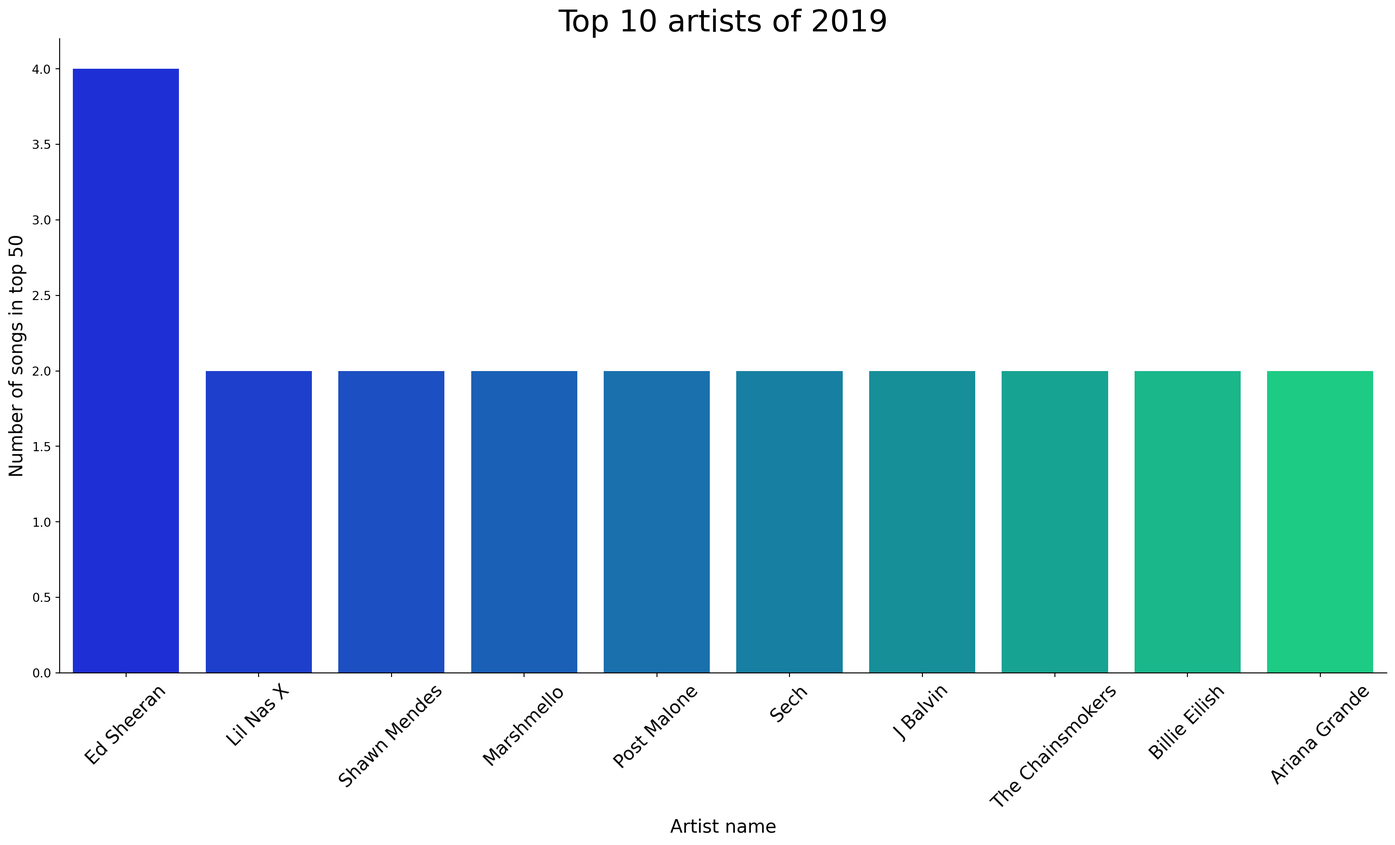
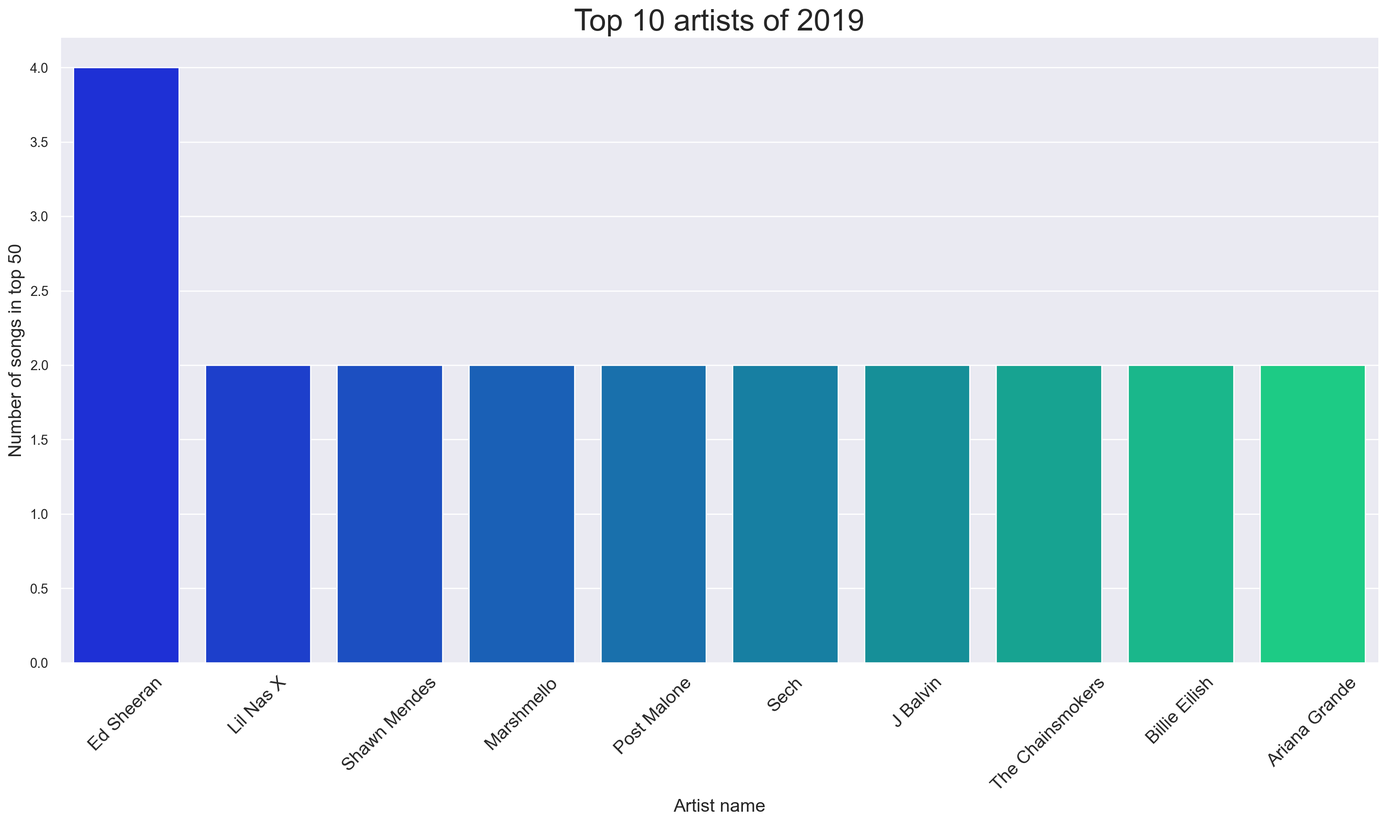
Spotify analysis cover image added

diff --git a/docs/_site/posts/blogs/Spotify top 50/Spotify_v1.html b/docs/_site/posts/blogs/Spotify top 50/Spotify_v1.html
@@ -7,7 +7,7 @@
 <meta name="viewport" content="width=device-width, initial-scale=1.0, user-scalable=yes">
 
 
-<title>R-insights 📊📈🖥 - Introduction</title>
+<title>R-insights 📊📈🖥 - What’s hot to listen to on Spotify in 2019</title>
 <style>
 code{white-space: pre-wrap;}
 span.smallcaps{font-variant: small-caps;}
@@ -168,7 +168,7 @@ require(['plotly'], function(Plotly) {
 <header id="title-block-header" class="quarto-title-block default page-columns page-full">
   <div class="quarto-title-banner page-columns page-full">
     <div class="quarto-title column-body">
-      <h1 class="title">Introduction</h1>
+      <h1 class="title">What’s hot to listen to on Spotify in 2019</h1>
                       </div>
   </div>
     
@@ -197,8 +197,8 @@ require(['plotly'], function(Plotly) {
 <p>Through this kernel, we would like to analyse the top 50 songs published by Spotify in 2019. We will check the various genres, popularity and some other features that made the songs to famous amongst the users.</p>
 <div class="quarto-figure quarto-figure-center">
 <figure class="figure">
-<p><img src="attachment:34173-original.jpg" class="img-fluid figure-img"></p>
-<figcaption class="figure-caption">34173-original.jpg</figcaption>
+<p><img src="spotify.png" class="img-fluid figure-img"></p>
+<figcaption class="figure-caption">Source: Google images</figcaption>
 </figure>
 </div>
 <section id="importing-the-relevant-libraries-and-dataset" class="level1">
@@ -214,7 +214,7 @@ require(['plotly'], function(Plotly) {
 <div class="cell" data-execution_count="2">
 <div class="sourceCode cell-code" id="cb2"><pre class="sourceCode python code-with-copy"><code class="sourceCode python"><span id="cb2-1"><a href="#cb2-1" aria-hidden="true" tabindex="-1"></a>df<span class="op">=</span>pd.read_csv(<span class="st">'top50.csv'</span>,encoding<span class="op">=</span><span class="st">'latin_1'</span>,index_col<span class="op">=</span><span class="dv">0</span>)</span>
 <span id="cb2-2"><a href="#cb2-2" aria-hidden="true" tabindex="-1"></a>df.head()</span></code><button title="Copy to Clipboard" class="code-copy-button"><i class="bi"></i></button></pre></div>
-<div class="cell-output cell-output-display" data-execution_count="2">
+<div class="cell-output cell-output-display" data-execution_count="15">
 <div>
 
 
@@ -335,7 +335,7 @@ require(['plotly'], function(Plotly) {
 <div class="sourceCode cell-code" id="cb3"><pre class="sourceCode python code-with-copy"><code class="sourceCode python"><span id="cb3-1"><a href="#cb3-1" aria-hidden="true" tabindex="-1"></a>df[<span class="st">'Count'</span>]<span class="op">=</span><span class="dv">1</span></span>
 <span id="cb3-2"><a href="#cb3-2" aria-hidden="true" tabindex="-1"></a>df_artist<span class="op">=</span>df.groupby(<span class="st">'Artist.Name'</span>)[<span class="st">'Count'</span>].<span class="bu">sum</span>().reset_index().sort_values(by<span class="op">=</span><span class="st">'Count'</span>,ascending<span class="op">=</span><span class="va">False</span>)</span>
 <span id="cb3-3"><a href="#cb3-3" aria-hidden="true" tabindex="-1"></a>df_artist.head(<span class="dv">10</span>)</span></code><button title="Copy to Clipboard" class="code-copy-button"><i class="bi"></i></button></pre></div>
-<div class="cell-output cell-output-display" data-execution_count="3">
+<div class="cell-output cell-output-display" data-execution_count="16">
 <div>
 
 
@@ -416,7 +416,7 @@ require(['plotly'], function(Plotly) {
 The figure layout has changed to tight
 </code></pre>
 </div>
-<div class="cell-output cell-output-display" data-execution_count="4">
+<div class="cell-output cell-output-display" data-execution_count="17">
 <pre><code>(array([0, 1, 2, 3, 4, 5, 6, 7, 8, 9]),
  [Text(0, 0, 'Ed Sheeran'),
   Text(1, 0, 'Lil Nas X'),
@@ -430,7 +430,7 @@ The figure layout has changed to tight
   Text(9, 0, 'Ariana Grande')])</code></pre>
 </div>
 <div class="cell-output cell-output-display">
-<p><img src="Spotify_v1_files/figure-html/cell-5-output-3.png" width="1532" height="928"></p>
+<p><img src="Spotify_v1_files/figure-html/cell-5-output-3.png" width="1524" height="905"></p>
 </div>
 </div>
 <p>As we can see from the plot above, Ed Sheeran performed the best with 4 songs in the top 50 charts. The notable other artists with more than 1 song have been shown above. All other artists had not more than 1 song in the top 50.</p>
@@ -441,7 +441,7 @@ The figure layout has changed to tight
 <div class="cell" data-execution_count="5">
 <div class="sourceCode cell-code" id="cb7"><pre class="sourceCode python code-with-copy"><code class="sourceCode python"><span id="cb7-1"><a href="#cb7-1" aria-hidden="true" tabindex="-1"></a>df_genre<span class="op">=</span>df.groupby(<span class="st">'Genre'</span>)[<span class="st">'Count'</span>].<span class="bu">sum</span>().reset_index().sort_values(by<span class="op">=</span><span class="st">'Count'</span>,ascending<span class="op">=</span><span class="va">False</span>)</span>
 <span id="cb7-2"><a href="#cb7-2" aria-hidden="true" tabindex="-1"></a>df_genre.head()</span></code><button title="Copy to Clipboard" class="code-copy-button"><i class="bi"></i></button></pre></div>
-<div class="cell-output cell-output-display" data-execution_count="5">
+<div class="cell-output cell-output-display" data-execution_count="18">
 <div>
 
 
@@ -493,9 +493,9 @@ The figure layout has changed to tight
 <span id="cb8-4"><a href="#cb8-4" aria-hidden="true" tabindex="-1"></a>fig.show()</span></code><button title="Copy to Clipboard" class="code-copy-button"><i class="bi"></i></button></pre></div>
 <div class="cell-output cell-output-display">
 
-<div>                            <div id="2eced8bc-771d-4a26-bbdc-239e9458ddee" class="plotly-graph-div" style="height:525px; width:100%;"></div>            <script type="text/javascript">                require(["plotly"], function(Plotly) {                    window.PLOTLYENV=window.PLOTLYENV || {};                                    if (document.getElementById("2eced8bc-771d-4a26-bbdc-239e9458ddee")) {                    Plotly.newPlot(                        "2eced8bc-771d-4a26-bbdc-239e9458ddee",                        [{"domain":{"x":[0.0,1.0],"y":[0.0,1.0]},"hole":0.4,"hovertemplate":"Genre=%{label}<br>Count=%{value}<extra></extra>","labels":["dance pop","pop","latin","edm","canadian hip hop","reggaeton flow","reggaeton","brostep","canadian pop","country rap","dfw rap","electropop","panamanian pop","r&b en espanol","pop house","atl hip hop","escape room","australian pop","boy band","big room","trap music"],"legendgroup":"","name":"","showlegend":true,"values":[8,7,5,3,3,2,2,2,2,2,2,2,2,1,1,1,1,1,1,1,1],"type":"pie","textfont":{"size":15},"textinfo":"percent"}],                        {"template":{"data":{"histogram2dcontour":[{"type":"histogram2dcontour","colorbar":{"outlinewidth":0,"ticks":""},"colorscale":[[0.0,"#0d0887"],[0.1111111111111111,"#46039f"],[0.2222222222222222,"#7201a8"],[0.3333333333333333,"#9c179e"],[0.4444444444444444,"#bd3786"],[0.5555555555555556,"#d8576b"],[0.6666666666666666,"#ed7953"],[0.7777777777777778,"#fb9f3a"],[0.8888888888888888,"#fdca26"],[1.0,"#f0f921"]]}],"choropleth":[{"type":"choropleth","colorbar":{"outlinewidth":0,"ticks":""}}],"histogram2d":[{"type":"histogram2d","colorbar":{"outlinewidth":0,"ticks":""},"colorscale":[[0.0,"#0d0887"],[0.1111111111111111,"#46039f"],[0.2222222222222222,"#7201a8"],[0.3333333333333333,"#9c179e"],[0.4444444444444444,"#bd3786"],[0.5555555555555556,"#d8576b"],[0.6666666666666666,"#ed7953"],[0.7777777777777778,"#fb9f3a"],[0.8888888888888888,"#fdca26"],[1.0,"#f0f921"]]}],"heatmap":[{"type":"heatmap","colorbar":{"outlinewidth":0,"ticks":""},"colorscale":[[0.0,"#0d0887"],[0.1111111111111111,"#46039f"],[0.2222222222222222,"#7201a8"],[0.3333333333333333,"#9c179e"],[0.4444444444444444,"#bd3786"],[0.5555555555555556,"#d8576b"],[0.6666666666666666,"#ed7953"],[0.7777777777777778,"#fb9f3a"],[0.8888888888888888,"#fdca26"],[1.0,"#f0f921"]]}],"heatmapgl":[{"type":"heatmapgl","colorbar":{"outlinewidth":0,"ticks":""},"colorscale":[[0.0,"#0d0887"],[0.1111111111111111,"#46039f"],[0.2222222222222222,"#7201a8"],[0.3333333333333333,"#9c179e"],[0.4444444444444444,"#bd3786"],[0.5555555555555556,"#d8576b"],[0.6666666666666666,"#ed7953"],[0.7777777777777778,"#fb9f3a"],[0.8888888888888888,"#fdca26"],[1.0,"#f0f921"]]}],"contourcarpet":[{"type":"contourcarpet","colorbar":{"outlinewidth":0,"ticks":""}}],"contour":[{"type":"contour","colorbar":{"outlinewidth":0,"ticks":""},"colorscale":[[0.0,"#0d0887"],[0.1111111111111111,"#46039f"],[0.2222222222222222,"#7201a8"],[0.3333333333333333,"#9c179e"],[0.4444444444444444,"#bd3786"],[0.5555555555555556,"#d8576b"],[0.6666666666666666,"#ed7953"],[0.7777777777777778,"#fb9f3a"],[0.8888888888888888,"#fdca26"],[1.0,"#f0f921"]]}],"surface":[{"type":"surface","colorbar":{"outlinewidth":0,"ticks":""},"colorscale":[[0.0,"#0d0887"],[0.1111111111111111,"#46039f"],[0.2222222222222222,"#7201a8"],[0.3333333333333333,"#9c179e"],[0.4444444444444444,"#bd3786"],[0.5555555555555556,"#d8576b"],[0.6666666666666666,"#ed7953"],[0.7777777777777778,"#fb9f3a"],[0.8888888888888888,"#fdca26"],[1.0,"#f0f921"]]}],"mesh3d":[{"type":"mesh3d","colorbar":{"outlinewidth":0,"ticks":""}}],"scatter":[{"fillpattern":{"fillmode":"overlay","size":10,"solidity":0.2},"type":"scatter"}],"parcoords":[{"type":"parcoords","line":{"colorbar":{"outlinewidth":0,"ticks":""}}}],"scatterpolargl":[{"type":"scatterpolargl","marker":{"colorbar":{"outlinewidth":0,"ticks":""}}}],"bar":[{"error_x":{"color":"#2a3f5f"},"error_y":{"color":"#2a3f5f"},"marker":{"line":{"color":"#E5ECF6","width":0.5},"pattern":{"fillmode":"overlay","size":10,"solidity":0.2}},"type":"bar"}],"scattergeo":[{"type":"scattergeo","marker":{"colorbar":{"outlinewidth":0,"ticks":""}}}],"scatterpolar":[{"type":"scatterpolar","marker":{"colorbar":{"outlinewidth":0,"ticks":""}}}],"histogram":[{"marker":{"pattern":{"fillmode":"overlay","size":10,"solidity":0.2}},"type":"histogram"}],"scattergl":[{"type":"scattergl","marker":{"colorbar":{"outlinewidth":0,"ticks":""}}}],"scatter3d":[{"type":"scatter3d","line":{"colorbar":{"outlinewidth":0,"ticks":""}},"marker":{"colorbar":{"outlinewidth":0,"ticks":""}}}],"scattermapbox":[{"type":"scattermapbox","marker":{"colorbar":{"outlinewidth":0,"ticks":""}}}],"scatterternary":[{"type":"scatterternary","marker":{"colorbar":{"outlinewidth":0,"ticks":""}}}],"scattercarpet":[{"type":"scattercarpet","marker":{"colorbar":{"outlinewidth":0,"ticks":""}}}],"carpet":[{"aaxis":{"endlinecolor":"#2a3f5f","gridcolor":"white","linecolor":"white","minorgridcolor":"white","startlinecolor":"#2a3f5f"},"baxis":{"endlinecolor":"#2a3f5f","gridcolor":"white","linecolor":"white","minorgridcolor":"white","startlinecolor":"#2a3f5f"},"type":"carpet"}],"table":[{"cells":{"fill":{"color":"#EBF0F8"},"line":{"color":"white"}},"header":{"fill":{"color":"#C8D4E3"},"line":{"color":"white"}},"type":"table"}],"barpolar":[{"marker":{"line":{"color":"#E5ECF6","width":0.5},"pattern":{"fillmode":"overlay","size":10,"solidity":0.2}},"type":"barpolar"}],"pie":[{"automargin":true,"type":"pie"}]},"layout":{"autotypenumbers":"strict","colorway":["#636efa","#EF553B","#00cc96","#ab63fa","#FFA15A","#19d3f3","#FF6692","#B6E880","#FF97FF","#FECB52"],"font":{"color":"#2a3f5f"},"hovermode":"closest","hoverlabel":{"align":"left"},"paper_bgcolor":"white","plot_bgcolor":"#E5ECF6","polar":{"bgcolor":"#E5ECF6","angularaxis":{"gridcolor":"white","linecolor":"white","ticks":""},"radialaxis":{"gridcolor":"white","linecolor":"white","ticks":""}},"ternary":{"bgcolor":"#E5ECF6","aaxis":{"gridcolor":"white","linecolor":"white","ticks":""},"baxis":{"gridcolor":"white","linecolor":"white","ticks":""},"caxis":{"gridcolor":"white","linecolor":"white","ticks":""}},"coloraxis":{"colorbar":{"outlinewidth":0,"ticks":""}},"colorscale":{"sequential":[[0.0,"#0d0887"],[0.1111111111111111,"#46039f"],[0.2222222222222222,"#7201a8"],[0.3333333333333333,"#9c179e"],[0.4444444444444444,"#bd3786"],[0.5555555555555556,"#d8576b"],[0.6666666666666666,"#ed7953"],[0.7777777777777778,"#fb9f3a"],[0.8888888888888888,"#fdca26"],[1.0,"#f0f921"]],"sequentialminus":[[0.0,"#0d0887"],[0.1111111111111111,"#46039f"],[0.2222222222222222,"#7201a8"],[0.3333333333333333,"#9c179e"],[0.4444444444444444,"#bd3786"],[0.5555555555555556,"#d8576b"],[0.6666666666666666,"#ed7953"],[0.7777777777777778,"#fb9f3a"],[0.8888888888888888,"#fdca26"],[1.0,"#f0f921"]],"diverging":[[0,"#8e0152"],[0.1,"#c51b7d"],[0.2,"#de77ae"],[0.3,"#f1b6da"],[0.4,"#fde0ef"],[0.5,"#f7f7f7"],[0.6,"#e6f5d0"],[0.7,"#b8e186"],[0.8,"#7fbc41"],[0.9,"#4d9221"],[1,"#276419"]]},"xaxis":{"gridcolor":"white","linecolor":"white","ticks":"","title":{"standoff":15},"zerolinecolor":"white","automargin":true,"zerolinewidth":2},"yaxis":{"gridcolor":"white","linecolor":"white","ticks":"","title":{"standoff":15},"zerolinecolor":"white","automargin":true,"zerolinewidth":2},"scene":{"xaxis":{"backgroundcolor":"#E5ECF6","gridcolor":"white","linecolor":"white","showbackground":true,"ticks":"","zerolinecolor":"white","gridwidth":2},"yaxis":{"backgroundcolor":"#E5ECF6","gridcolor":"white","linecolor":"white","showbackground":true,"ticks":"","zerolinecolor":"white","gridwidth":2},"zaxis":{"backgroundcolor":"#E5ECF6","gridcolor":"white","linecolor":"white","showbackground":true,"ticks":"","zerolinecolor":"white","gridwidth":2}},"shapedefaults":{"line":{"color":"#2a3f5f"}},"annotationdefaults":{"arrowcolor":"#2a3f5f","arrowhead":0,"arrowwidth":1},"geo":{"bgcolor":"white","landcolor":"#E5ECF6","subunitcolor":"white","showland":true,"showlakes":true,"lakecolor":"white"},"title":{"x":0.05},"mapbox":{"style":"light"}}},"legend":{"tracegroupgap":0},"margin":{"t":60},"title":{"text":"Top genres of 2019","x":0.45},"annotations":[{"height":800,"showarrow":false,"text":"Genre","width":700,"font":{"size":20}}]},                        {"responsive": true}                    ).then(function(){
+<div>                            <div id="93672c84-27f6-402c-aaec-0319768cae4a" class="plotly-graph-div" style="height:525px; width:100%;"></div>            <script type="text/javascript">                require(["plotly"], function(Plotly) {                    window.PLOTLYENV=window.PLOTLYENV || {};                                    if (document.getElementById("93672c84-27f6-402c-aaec-0319768cae4a")) {                    Plotly.newPlot(                        "93672c84-27f6-402c-aaec-0319768cae4a",                        [{"domain":{"x":[0.0,1.0],"y":[0.0,1.0]},"hole":0.4,"hovertemplate":"Genre=%{label}<br>Count=%{value}<extra></extra>","labels":["dance pop","pop","latin","edm","canadian hip hop","reggaeton flow","reggaeton","brostep","canadian pop","country rap","dfw rap","electropop","panamanian pop","r&b en espanol","pop house","atl hip hop","escape room","australian pop","boy band","big room","trap music"],"legendgroup":"","name":"","showlegend":true,"values":[8,7,5,3,3,2,2,2,2,2,2,2,2,1,1,1,1,1,1,1,1],"type":"pie","textfont":{"size":15},"textinfo":"percent"}],                        {"template":{"data":{"histogram2dcontour":[{"type":"histogram2dcontour","colorbar":{"outlinewidth":0,"ticks":""},"colorscale":[[0.0,"#0d0887"],[0.1111111111111111,"#46039f"],[0.2222222222222222,"#7201a8"],[0.3333333333333333,"#9c179e"],[0.4444444444444444,"#bd3786"],[0.5555555555555556,"#d8576b"],[0.6666666666666666,"#ed7953"],[0.7777777777777778,"#fb9f3a"],[0.8888888888888888,"#fdca26"],[1.0,"#f0f921"]]}],"choropleth":[{"type":"choropleth","colorbar":{"outlinewidth":0,"ticks":""}}],"histogram2d":[{"type":"histogram2d","colorbar":{"outlinewidth":0,"ticks":""},"colorscale":[[0.0,"#0d0887"],[0.1111111111111111,"#46039f"],[0.2222222222222222,"#7201a8"],[0.3333333333333333,"#9c179e"],[0.4444444444444444,"#bd3786"],[0.5555555555555556,"#d8576b"],[0.6666666666666666,"#ed7953"],[0.7777777777777778,"#fb9f3a"],[0.8888888888888888,"#fdca26"],[1.0,"#f0f921"]]}],"heatmap":[{"type":"heatmap","colorbar":{"outlinewidth":0,"ticks":""},"colorscale":[[0.0,"#0d0887"],[0.1111111111111111,"#46039f"],[0.2222222222222222,"#7201a8"],[0.3333333333333333,"#9c179e"],[0.4444444444444444,"#bd3786"],[0.5555555555555556,"#d8576b"],[0.6666666666666666,"#ed7953"],[0.7777777777777778,"#fb9f3a"],[0.8888888888888888,"#fdca26"],[1.0,"#f0f921"]]}],"heatmapgl":[{"type":"heatmapgl","colorbar":{"outlinewidth":0,"ticks":""},"colorscale":[[0.0,"#0d0887"],[0.1111111111111111,"#46039f"],[0.2222222222222222,"#7201a8"],[0.3333333333333333,"#9c179e"],[0.4444444444444444,"#bd3786"],[0.5555555555555556,"#d8576b"],[0.6666666666666666,"#ed7953"],[0.7777777777777778,"#fb9f3a"],[0.8888888888888888,"#fdca26"],[1.0,"#f0f921"]]}],"contourcarpet":[{"type":"contourcarpet","colorbar":{"outlinewidth":0,"ticks":""}}],"contour":[{"type":"contour","colorbar":{"outlinewidth":0,"ticks":""},"colorscale":[[0.0,"#0d0887"],[0.1111111111111111,"#46039f"],[0.2222222222222222,"#7201a8"],[0.3333333333333333,"#9c179e"],[0.4444444444444444,"#bd3786"],[0.5555555555555556,"#d8576b"],[0.6666666666666666,"#ed7953"],[0.7777777777777778,"#fb9f3a"],[0.8888888888888888,"#fdca26"],[1.0,"#f0f921"]]}],"surface":[{"type":"surface","colorbar":{"outlinewidth":0,"ticks":""},"colorscale":[[0.0,"#0d0887"],[0.1111111111111111,"#46039f"],[0.2222222222222222,"#7201a8"],[0.3333333333333333,"#9c179e"],[0.4444444444444444,"#bd3786"],[0.5555555555555556,"#d8576b"],[0.6666666666666666,"#ed7953"],[0.7777777777777778,"#fb9f3a"],[0.8888888888888888,"#fdca26"],[1.0,"#f0f921"]]}],"mesh3d":[{"type":"mesh3d","colorbar":{"outlinewidth":0,"ticks":""}}],"scatter":[{"fillpattern":{"fillmode":"overlay","size":10,"solidity":0.2},"type":"scatter"}],"parcoords":[{"type":"parcoords","line":{"colorbar":{"outlinewidth":0,"ticks":""}}}],"scatterpolargl":[{"type":"scatterpolargl","marker":{"colorbar":{"outlinewidth":0,"ticks":""}}}],"bar":[{"error_x":{"color":"#2a3f5f"},"error_y":{"color":"#2a3f5f"},"marker":{"line":{"color":"#E5ECF6","width":0.5},"pattern":{"fillmode":"overlay","size":10,"solidity":0.2}},"type":"bar"}],"scattergeo":[{"type":"scattergeo","marker":{"colorbar":{"outlinewidth":0,"ticks":""}}}],"scatterpolar":[{"type":"scatterpolar","marker":{"colorbar":{"outlinewidth":0,"ticks":""}}}],"histogram":[{"marker":{"pattern":{"fillmode":"overlay","size":10,"solidity":0.2}},"type":"histogram"}],"scattergl":[{"type":"scattergl","marker":{"colorbar":{"outlinewidth":0,"ticks":""}}}],"scatter3d":[{"type":"scatter3d","line":{"colorbar":{"outlinewidth":0,"ticks":""}},"marker":{"colorbar":{"outlinewidth":0,"ticks":""}}}],"scattermapbox":[{"type":"scattermapbox","marker":{"colorbar":{"outlinewidth":0,"ticks":""}}}],"scatterternary":[{"type":"scatterternary","marker":{"colorbar":{"outlinewidth":0,"ticks":""}}}],"scattercarpet":[{"type":"scattercarpet","marker":{"colorbar":{"outlinewidth":0,"ticks":""}}}],"carpet":[{"aaxis":{"endlinecolor":"#2a3f5f","gridcolor":"white","linecolor":"white","minorgridcolor":"white","startlinecolor":"#2a3f5f"},"baxis":{"endlinecolor":"#2a3f5f","gridcolor":"white","linecolor":"white","minorgridcolor":"white","startlinecolor":"#2a3f5f"},"type":"carpet"}],"table":[{"cells":{"fill":{"color":"#EBF0F8"},"line":{"color":"white"}},"header":{"fill":{"color":"#C8D4E3"},"line":{"color":"white"}},"type":"table"}],"barpolar":[{"marker":{"line":{"color":"#E5ECF6","width":0.5},"pattern":{"fillmode":"overlay","size":10,"solidity":0.2}},"type":"barpolar"}],"pie":[{"automargin":true,"type":"pie"}]},"layout":{"autotypenumbers":"strict","colorway":["#636efa","#EF553B","#00cc96","#ab63fa","#FFA15A","#19d3f3","#FF6692","#B6E880","#FF97FF","#FECB52"],"font":{"color":"#2a3f5f"},"hovermode":"closest","hoverlabel":{"align":"left"},"paper_bgcolor":"white","plot_bgcolor":"#E5ECF6","polar":{"bgcolor":"#E5ECF6","angularaxis":{"gridcolor":"white","linecolor":"white","ticks":""},"radialaxis":{"gridcolor":"white","linecolor":"white","ticks":""}},"ternary":{"bgcolor":"#E5ECF6","aaxis":{"gridcolor":"white","linecolor":"white","ticks":""},"baxis":{"gridcolor":"white","linecolor":"white","ticks":""},"caxis":{"gridcolor":"white","linecolor":"white","ticks":""}},"coloraxis":{"colorbar":{"outlinewidth":0,"ticks":""}},"colorscale":{"sequential":[[0.0,"#0d0887"],[0.1111111111111111,"#46039f"],[0.2222222222222222,"#7201a8"],[0.3333333333333333,"#9c179e"],[0.4444444444444444,"#bd3786"],[0.5555555555555556,"#d8576b"],[0.6666666666666666,"#ed7953"],[0.7777777777777778,"#fb9f3a"],[0.8888888888888888,"#fdca26"],[1.0,"#f0f921"]],"sequentialminus":[[0.0,"#0d0887"],[0.1111111111111111,"#46039f"],[0.2222222222222222,"#7201a8"],[0.3333333333333333,"#9c179e"],[0.4444444444444444,"#bd3786"],[0.5555555555555556,"#d8576b"],[0.6666666666666666,"#ed7953"],[0.7777777777777778,"#fb9f3a"],[0.8888888888888888,"#fdca26"],[1.0,"#f0f921"]],"diverging":[[0,"#8e0152"],[0.1,"#c51b7d"],[0.2,"#de77ae"],[0.3,"#f1b6da"],[0.4,"#fde0ef"],[0.5,"#f7f7f7"],[0.6,"#e6f5d0"],[0.7,"#b8e186"],[0.8,"#7fbc41"],[0.9,"#4d9221"],[1,"#276419"]]},"xaxis":{"gridcolor":"white","linecolor":"white","ticks":"","title":{"standoff":15},"zerolinecolor":"white","automargin":true,"zerolinewidth":2},"yaxis":{"gridcolor":"white","linecolor":"white","ticks":"","title":{"standoff":15},"zerolinecolor":"white","automargin":true,"zerolinewidth":2},"scene":{"xaxis":{"backgroundcolor":"#E5ECF6","gridcolor":"white","linecolor":"white","showbackground":true,"ticks":"","zerolinecolor":"white","gridwidth":2},"yaxis":{"backgroundcolor":"#E5ECF6","gridcolor":"white","linecolor":"white","showbackground":true,"ticks":"","zerolinecolor":"white","gridwidth":2},"zaxis":{"backgroundcolor":"#E5ECF6","gridcolor":"white","linecolor":"white","showbackground":true,"ticks":"","zerolinecolor":"white","gridwidth":2}},"shapedefaults":{"line":{"color":"#2a3f5f"}},"annotationdefaults":{"arrowcolor":"#2a3f5f","arrowhead":0,"arrowwidth":1},"geo":{"bgcolor":"white","landcolor":"#E5ECF6","subunitcolor":"white","showland":true,"showlakes":true,"lakecolor":"white"},"title":{"x":0.05},"mapbox":{"style":"light"}}},"legend":{"tracegroupgap":0},"margin":{"t":60},"title":{"text":"Top genres of 2019","x":0.45},"annotations":[{"height":800,"showarrow":false,"text":"Genre","width":700,"font":{"size":20}}]},                        {"responsive": true}                    ).then(function(){
                             
-var gd = document.getElementById('2eced8bc-771d-4a26-bbdc-239e9458ddee');
+var gd = document.getElementById('93672c84-27f6-402c-aaec-0319768cae4a');
 var x = new MutationObserver(function (mutations, observer) {{
         var display = window.getComputedStyle(gd).display;
         if (!display || display === 'none') {{
@@ -528,7 +528,7 @@ if (outputEl) {{
 <div class="sourceCode cell-code" id="cb9"><pre class="sourceCode python code-with-copy"><code class="sourceCode python"><span id="cb9-1"><a href="#cb9-1" aria-hidden="true" tabindex="-1"></a>df_top_tracks<span class="op">=</span>df.sort_values(by<span class="op">=</span><span class="st">'Popularity'</span>,ascending<span class="op">=</span><span class="va">False</span>).head(<span class="dv">10</span>).reset_index(drop<span class="op">=</span><span class="va">True</span>)</span>
 <span id="cb9-2"><a href="#cb9-2" aria-hidden="true" tabindex="-1"></a>df_top_tracks.index<span class="op">=</span>df_top_tracks.index <span class="op">+</span> <span class="dv">1</span></span>
 <span id="cb9-3"><a href="#cb9-3" aria-hidden="true" tabindex="-1"></a>df_top_tracks</span></code><button title="Copy to Clipboard" class="code-copy-button"><i class="bi"></i></button></pre></div>
-<div class="cell-output cell-output-display" data-execution_count="7">
+<div class="cell-output cell-output-display" data-execution_count="20">
 <div>
 
 
@@ -738,7 +738,7 @@ if (outputEl) {{
 <span id="cb10-4"><a href="#cb10-4" aria-hidden="true" tabindex="-1"></a>       <span class="st">'Acousticness..'</span>, <span class="st">'Speechiness.'</span>],alpha<span class="op">=</span><span class="fl">0.4</span>,figsize<span class="op">=</span>(<span class="dv">15</span>,<span class="dv">12</span>),stacked<span class="op">=</span><span class="va">True</span>)</span>
 <span id="cb10-5"><a href="#cb10-5" aria-hidden="true" tabindex="-1"></a>plt.title(<span class="st">'Technical variations of top 10 songs'</span>,size<span class="op">=</span><span class="dv">20</span>)</span>
 <span id="cb10-6"><a href="#cb10-6" aria-hidden="true" tabindex="-1"></a>plt.xlabel(<span class="st">'Track number'</span>)</span></code><button title="Copy to Clipboard" class="code-copy-button"><i class="bi"></i></button></pre></div>
-<div class="cell-output cell-output-display" data-execution_count="8">
+<div class="cell-output cell-output-display" data-execution_count="21">
 <pre><code>Text(0.5, 0, 'Track number')</code></pre>
 </div>
 <div class="cell-output cell-output-display">
@@ -828,9 +828,9 @@ Vertical orientation ignored with only `x` specified.
 <span id="cb15-5"><a href="#cb15-5" aria-hidden="true" tabindex="-1"></a>fig3.show()</span></code><button title="Copy to Clipboard" class="code-copy-button"><i class="bi"></i></button></pre></div>
 <div class="cell-output cell-output-display">
 
-<div>                            <div id="1623b869-5f9a-4e2d-b9a0-fe0bd1ff2bf3" class="plotly-graph-div" style="height:800px; width:1000px;"></div>            <script type="text/javascript">                require(["plotly"], function(Plotly) {                    window.PLOTLYENV=window.PLOTLYENV || {};                                    if (document.getElementById("1623b869-5f9a-4e2d-b9a0-fe0bd1ff2bf3")) {                    Plotly.newPlot(                        "1623b869-5f9a-4e2d-b9a0-fe0bd1ff2bf3",                        [{"hovertemplate":"Track.Name=%{x}<br>Length.=%{y}<extra></extra>","legendgroup":"","line":{"color":"#636efa","dash":"solid"},"marker":{"symbol":"circle"},"mode":"lines","name":"","orientation":"v","showlegend":false,"x":["Senorita","China","boyfriend (with Social House)","Beautiful People (feat. Khalid)","Goodbyes (Feat. Young Thug)","I Don't Care (with Justin Bieber)","Ransom","How Do You Sleep?","Old Town Road - Remix","bad guy","Callaita","Loco Contigo (feat. J. Balvin & Tyga)","Someone You Loved","Otro Trago - Remix","Money In The Grave (Drake ft. Rick Ross)","No Guidance (feat. Drake)","LA CANCI\u00c3\u0093N","Sunflower - Spider-Man: Into the Spider-Verse","Lalala","Truth Hurts","Piece Of Your Heart","Panini","No Me Conoce - Remix","Soltera - Remix","bad guy (with Justin Bieber)","If I Can't Have You","Dance Monkey","It's You","Con Calma","QUE PRETENDES","Takeaway","7 rings","0.958333333333333","The London (feat. J. Cole & Travis Scott)","Never Really Over","Summer Days (feat. Macklemore & Patrick Stump of Fall Out Boy)","Otro Trago","Antisocial (with Travis Scott)","Sucker","fuck, i'm lonely (with Anne-Marie) - from \u00e2\u0080\u009c13 Reasons Why: Season 3\u00e2\u0080\u009d","Higher Love","You Need To Calm Down","Shallow","Talk","Con Altura","One Thing Right","Te Robar\u00c3\u00a9","Happier","Call You Mine","Cross Me (feat. Chance the Rapper & PnB Rock)"],"xaxis":"x","y":[191,302,186,198,175,220,131,202,157,194,251,185,182,288,205,261,243,158,161,173,153,115,309,266,195,191,210,213,193,222,210,179,176,200,224,164,226,162,181,199,228,171,216,198,162,182,202,214,218,206],"yaxis":"y","type":"scatter"}],                        {"template":{"data":{"histogram2dcontour":[{"type":"histogram2dcontour","colorbar":{"outlinewidth":0,"ticks":""},"colorscale":[[0.0,"#0d0887"],[0.1111111111111111,"#46039f"],[0.2222222222222222,"#7201a8"],[0.3333333333333333,"#9c179e"],[0.4444444444444444,"#bd3786"],[0.5555555555555556,"#d8576b"],[0.6666666666666666,"#ed7953"],[0.7777777777777778,"#fb9f3a"],[0.8888888888888888,"#fdca26"],[1.0,"#f0f921"]]}],"choropleth":[{"type":"choropleth","colorbar":{"outlinewidth":0,"ticks":""}}],"histogram2d":[{"type":"histogram2d","colorbar":{"outlinewidth":0,"ticks":""},"colorscale":[[0.0,"#0d0887"],[0.1111111111111111,"#46039f"],[0.2222222222222222,"#7201a8"],[0.3333333333333333,"#9c179e"],[0.4444444444444444,"#bd3786"],[0.5555555555555556,"#d8576b"],[0.6666666666666666,"#ed7953"],[0.7777777777777778,"#fb9f3a"],[0.8888888888888888,"#fdca26"],[1.0,"#f0f921"]]}],"heatmap":[{"type":"heatmap","colorbar":{"outlinewidth":0,"ticks":""},"colorscale":[[0.0,"#0d0887"],[0.1111111111111111,"#46039f"],[0.2222222222222222,"#7201a8"],[0.3333333333333333,"#9c179e"],[0.4444444444444444,"#bd3786"],[0.5555555555555556,"#d8576b"],[0.6666666666666666,"#ed7953"],[0.7777777777777778,"#fb9f3a"],[0.8888888888888888,"#fdca26"],[1.0,"#f0f921"]]}],"heatmapgl":[{"type":"heatmapgl","colorbar":{"outlinewidth":0,"ticks":""},"colorscale":[[0.0,"#0d0887"],[0.1111111111111111,"#46039f"],[0.2222222222222222,"#7201a8"],[0.3333333333333333,"#9c179e"],[0.4444444444444444,"#bd3786"],[0.5555555555555556,"#d8576b"],[0.6666666666666666,"#ed7953"],[0.7777777777777778,"#fb9f3a"],[0.8888888888888888,"#fdca26"],[1.0,"#f0f921"]]}],"contourcarpet":[{"type":"contourcarpet","colorbar":{"outlinewidth":0,"ticks":""}}],"contour":[{"type":"contour","colorbar":{"outlinewidth":0,"ticks":""},"colorscale":[[0.0,"#0d0887"],[0.1111111111111111,"#46039f"],[0.2222222222222222,"#7201a8"],[0.3333333333333333,"#9c179e"],[0.4444444444444444,"#bd3786"],[0.5555555555555556,"#d8576b"],[0.6666666666666666,"#ed7953"],[0.7777777777777778,"#fb9f3a"],[0.8888888888888888,"#fdca26"],[1.0,"#f0f921"]]}],"surface":[{"type":"surface","colorbar":{"outlinewidth":0,"ticks":""},"colorscale":[[0.0,"#0d0887"],[0.1111111111111111,"#46039f"],[0.2222222222222222,"#7201a8"],[0.3333333333333333,"#9c179e"],[0.4444444444444444,"#bd3786"],[0.5555555555555556,"#d8576b"],[0.6666666666666666,"#ed7953"],[0.7777777777777778,"#fb9f3a"],[0.8888888888888888,"#fdca26"],[1.0,"#f0f921"]]}],"mesh3d":[{"type":"mesh3d","colorbar":{"outlinewidth":0,"ticks":""}}],"scatter":[{"fillpattern":{"fillmode":"overlay","size":10,"solidity":0.2},"type":"scatter"}],"parcoords":[{"type":"parcoords","line":{"colorbar":{"outlinewidth":0,"ticks":""}}}],"scatterpolargl":[{"type":"scatterpolargl","marker":{"colorbar":{"outlinewidth":0,"ticks":""}}}],"bar":[{"error_x":{"color":"#2a3f5f"},"error_y":{"color":"#2a3f5f"},"marker":{"line":{"color":"#E5ECF6","width":0.5},"pattern":{"fillmode":"overlay","size":10,"solidity":0.2}},"type":"bar"}],"scattergeo":[{"type":"scattergeo","marker":{"colorbar":{"outlinewidth":0,"ticks":""}}}],"scatterpolar":[{"type":"scatterpolar","marker":{"colorbar":{"outlinewidth":0,"ticks":""}}}],"histogram":[{"marker":{"pattern":{"fillmode":"overlay","size":10,"solidity":0.2}},"type":"histogram"}],"scattergl":[{"type":"scattergl","marker":{"colorbar":{"outlinewidth":0,"ticks":""}}}],"scatter3d":[{"type":"scatter3d","line":{"colorbar":{"outlinewidth":0,"ticks":""}},"marker":{"colorbar":{"outlinewidth":0,"ticks":""}}}],"scattermapbox":[{"type":"scattermapbox","marker":{"colorbar":{"outlinewidth":0,"ticks":""}}}],"scatterternary":[{"type":"scatterternary","marker":{"colorbar":{"outlinewidth":0,"ticks":""}}}],"scattercarpet":[{"type":"scattercarpet","marker":{"colorbar":{"outlinewidth":0,"ticks":""}}}],"carpet":[{"aaxis":{"endlinecolor":"#2a3f5f","gridcolor":"white","linecolor":"white","minorgridcolor":"white","startlinecolor":"#2a3f5f"},"baxis":{"endlinecolor":"#2a3f5f","gridcolor":"white","linecolor":"white","minorgridcolor":"white","startlinecolor":"#2a3f5f"},"type":"carpet"}],"table":[{"cells":{"fill":{"color":"#EBF0F8"},"line":{"color":"white"}},"header":{"fill":{"color":"#C8D4E3"},"line":{"color":"white"}},"type":"table"}],"barpolar":[{"marker":{"line":{"color":"#E5ECF6","width":0.5},"pattern":{"fillmode":"overlay","size":10,"solidity":0.2}},"type":"barpolar"}],"pie":[{"automargin":true,"type":"pie"}]},"layout":{"autotypenumbers":"strict","colorway":["#636efa","#EF553B","#00cc96","#ab63fa","#FFA15A","#19d3f3","#FF6692","#B6E880","#FF97FF","#FECB52"],"font":{"color":"#2a3f5f"},"hovermode":"closest","hoverlabel":{"align":"left"},"paper_bgcolor":"white","plot_bgcolor":"#E5ECF6","polar":{"bgcolor":"#E5ECF6","angularaxis":{"gridcolor":"white","linecolor":"white","ticks":""},"radialaxis":{"gridcolor":"white","linecolor":"white","ticks":""}},"ternary":{"bgcolor":"#E5ECF6","aaxis":{"gridcolor":"white","linecolor":"white","ticks":""},"baxis":{"gridcolor":"white","linecolor":"white","ticks":""},"caxis":{"gridcolor":"white","linecolor":"white","ticks":""}},"coloraxis":{"colorbar":{"outlinewidth":0,"ticks":""}},"colorscale":{"sequential":[[0.0,"#0d0887"],[0.1111111111111111,"#46039f"],[0.2222222222222222,"#7201a8"],[0.3333333333333333,"#9c179e"],[0.4444444444444444,"#bd3786"],[0.5555555555555556,"#d8576b"],[0.6666666666666666,"#ed7953"],[0.7777777777777778,"#fb9f3a"],[0.8888888888888888,"#fdca26"],[1.0,"#f0f921"]],"sequentialminus":[[0.0,"#0d0887"],[0.1111111111111111,"#46039f"],[0.2222222222222222,"#7201a8"],[0.3333333333333333,"#9c179e"],[0.4444444444444444,"#bd3786"],[0.5555555555555556,"#d8576b"],[0.6666666666666666,"#ed7953"],[0.7777777777777778,"#fb9f3a"],[0.8888888888888888,"#fdca26"],[1.0,"#f0f921"]],"diverging":[[0,"#8e0152"],[0.1,"#c51b7d"],[0.2,"#de77ae"],[0.3,"#f1b6da"],[0.4,"#fde0ef"],[0.5,"#f7f7f7"],[0.6,"#e6f5d0"],[0.7,"#b8e186"],[0.8,"#7fbc41"],[0.9,"#4d9221"],[1,"#276419"]]},"xaxis":{"gridcolor":"white","linecolor":"white","ticks":"","title":{"standoff":15},"zerolinecolor":"white","automargin":true,"zerolinewidth":2},"yaxis":{"gridcolor":"white","linecolor":"white","ticks":"","title":{"standoff":15},"zerolinecolor":"white","automargin":true,"zerolinewidth":2},"scene":{"xaxis":{"backgroundcolor":"#E5ECF6","gridcolor":"white","linecolor":"white","showbackground":true,"ticks":"","zerolinecolor":"white","gridwidth":2},"yaxis":{"backgroundcolor":"#E5ECF6","gridcolor":"white","linecolor":"white","showbackground":true,"ticks":"","zerolinecolor":"white","gridwidth":2},"zaxis":{"backgroundcolor":"#E5ECF6","gridcolor":"white","linecolor":"white","showbackground":true,"ticks":"","zerolinecolor":"white","gridwidth":2}},"shapedefaults":{"line":{"color":"#2a3f5f"}},"annotationdefaults":{"arrowcolor":"#2a3f5f","arrowhead":0,"arrowwidth":1},"geo":{"bgcolor":"white","landcolor":"#E5ECF6","subunitcolor":"white","showland":true,"showlakes":true,"lakecolor":"white"},"title":{"x":0.05},"mapbox":{"style":"light"}}},"xaxis":{"anchor":"y","domain":[0.0,1.0],"title":{"text":"Track.Name"},"visible":false},"yaxis":{"anchor":"x","domain":[0.0,1.0],"title":{"text":"Length."}},"legend":{"tracegroupgap":0},"margin":{"t":60},"height":800,"width":1000,"title":{"text":"Length of top songs","x":0.5},"plot_bgcolor":"black"},                        {"responsive": true}                    ).then(function(){
+<div>                            <div id="b752256c-026d-416c-9570-897c86ce5664" class="plotly-graph-div" style="height:800px; width:1000px;"></div>            <script type="text/javascript">                require(["plotly"], function(Plotly) {                    window.PLOTLYENV=window.PLOTLYENV || {};                                    if (document.getElementById("b752256c-026d-416c-9570-897c86ce5664")) {                    Plotly.newPlot(                        "b752256c-026d-416c-9570-897c86ce5664",                        [{"hovertemplate":"Track.Name=%{x}<br>Length.=%{y}<extra></extra>","legendgroup":"","line":{"color":"#636efa","dash":"solid"},"marker":{"symbol":"circle"},"mode":"lines","name":"","orientation":"v","showlegend":false,"x":["Senorita","China","boyfriend (with Social House)","Beautiful People (feat. Khalid)","Goodbyes (Feat. Young Thug)","I Don't Care (with Justin Bieber)","Ransom","How Do You Sleep?","Old Town Road - Remix","bad guy","Callaita","Loco Contigo (feat. J. Balvin & Tyga)","Someone You Loved","Otro Trago - Remix","Money In The Grave (Drake ft. Rick Ross)","No Guidance (feat. Drake)","LA CANCI\u00c3\u0093N","Sunflower - Spider-Man: Into the Spider-Verse","Lalala","Truth Hurts","Piece Of Your Heart","Panini","No Me Conoce - Remix","Soltera - Remix","bad guy (with Justin Bieber)","If I Can't Have You","Dance Monkey","It's You","Con Calma","QUE PRETENDES","Takeaway","7 rings","0.958333333333333","The London (feat. J. Cole & Travis Scott)","Never Really Over","Summer Days (feat. Macklemore & Patrick Stump of Fall Out Boy)","Otro Trago","Antisocial (with Travis Scott)","Sucker","fuck, i'm lonely (with Anne-Marie) - from \u00e2\u0080\u009c13 Reasons Why: Season 3\u00e2\u0080\u009d","Higher Love","You Need To Calm Down","Shallow","Talk","Con Altura","One Thing Right","Te Robar\u00c3\u00a9","Happier","Call You Mine","Cross Me (feat. Chance the Rapper & PnB Rock)"],"xaxis":"x","y":[191,302,186,198,175,220,131,202,157,194,251,185,182,288,205,261,243,158,161,173,153,115,309,266,195,191,210,213,193,222,210,179,176,200,224,164,226,162,181,199,228,171,216,198,162,182,202,214,218,206],"yaxis":"y","type":"scatter"}],                        {"template":{"data":{"histogram2dcontour":[{"type":"histogram2dcontour","colorbar":{"outlinewidth":0,"ticks":""},"colorscale":[[0.0,"#0d0887"],[0.1111111111111111,"#46039f"],[0.2222222222222222,"#7201a8"],[0.3333333333333333,"#9c179e"],[0.4444444444444444,"#bd3786"],[0.5555555555555556,"#d8576b"],[0.6666666666666666,"#ed7953"],[0.7777777777777778,"#fb9f3a"],[0.8888888888888888,"#fdca26"],[1.0,"#f0f921"]]}],"choropleth":[{"type":"choropleth","colorbar":{"outlinewidth":0,"ticks":""}}],"histogram2d":[{"type":"histogram2d","colorbar":{"outlinewidth":0,"ticks":""},"colorscale":[[0.0,"#0d0887"],[0.1111111111111111,"#46039f"],[0.2222222222222222,"#7201a8"],[0.3333333333333333,"#9c179e"],[0.4444444444444444,"#bd3786"],[0.5555555555555556,"#d8576b"],[0.6666666666666666,"#ed7953"],[0.7777777777777778,"#fb9f3a"],[0.8888888888888888,"#fdca26"],[1.0,"#f0f921"]]}],"heatmap":[{"type":"heatmap","colorbar":{"outlinewidth":0,"ticks":""},"colorscale":[[0.0,"#0d0887"],[0.1111111111111111,"#46039f"],[0.2222222222222222,"#7201a8"],[0.3333333333333333,"#9c179e"],[0.4444444444444444,"#bd3786"],[0.5555555555555556,"#d8576b"],[0.6666666666666666,"#ed7953"],[0.7777777777777778,"#fb9f3a"],[0.8888888888888888,"#fdca26"],[1.0,"#f0f921"]]}],"heatmapgl":[{"type":"heatmapgl","colorbar":{"outlinewidth":0,"ticks":""},"colorscale":[[0.0,"#0d0887"],[0.1111111111111111,"#46039f"],[0.2222222222222222,"#7201a8"],[0.3333333333333333,"#9c179e"],[0.4444444444444444,"#bd3786"],[0.5555555555555556,"#d8576b"],[0.6666666666666666,"#ed7953"],[0.7777777777777778,"#fb9f3a"],[0.8888888888888888,"#fdca26"],[1.0,"#f0f921"]]}],"contourcarpet":[{"type":"contourcarpet","colorbar":{"outlinewidth":0,"ticks":""}}],"contour":[{"type":"contour","colorbar":{"outlinewidth":0,"ticks":""},"colorscale":[[0.0,"#0d0887"],[0.1111111111111111,"#46039f"],[0.2222222222222222,"#7201a8"],[0.3333333333333333,"#9c179e"],[0.4444444444444444,"#bd3786"],[0.5555555555555556,"#d8576b"],[0.6666666666666666,"#ed7953"],[0.7777777777777778,"#fb9f3a"],[0.8888888888888888,"#fdca26"],[1.0,"#f0f921"]]}],"surface":[{"type":"surface","colorbar":{"outlinewidth":0,"ticks":""},"colorscale":[[0.0,"#0d0887"],[0.1111111111111111,"#46039f"],[0.2222222222222222,"#7201a8"],[0.3333333333333333,"#9c179e"],[0.4444444444444444,"#bd3786"],[0.5555555555555556,"#d8576b"],[0.6666666666666666,"#ed7953"],[0.7777777777777778,"#fb9f3a"],[0.8888888888888888,"#fdca26"],[1.0,"#f0f921"]]}],"mesh3d":[{"type":"mesh3d","colorbar":{"outlinewidth":0,"ticks":""}}],"scatter":[{"fillpattern":{"fillmode":"overlay","size":10,"solidity":0.2},"type":"scatter"}],"parcoords":[{"type":"parcoords","line":{"colorbar":{"outlinewidth":0,"ticks":""}}}],"scatterpolargl":[{"type":"scatterpolargl","marker":{"colorbar":{"outlinewidth":0,"ticks":""}}}],"bar":[{"error_x":{"color":"#2a3f5f"},"error_y":{"color":"#2a3f5f"},"marker":{"line":{"color":"#E5ECF6","width":0.5},"pattern":{"fillmode":"overlay","size":10,"solidity":0.2}},"type":"bar"}],"scattergeo":[{"type":"scattergeo","marker":{"colorbar":{"outlinewidth":0,"ticks":""}}}],"scatterpolar":[{"type":"scatterpolar","marker":{"colorbar":{"outlinewidth":0,"ticks":""}}}],"histogram":[{"marker":{"pattern":{"fillmode":"overlay","size":10,"solidity":0.2}},"type":"histogram"}],"scattergl":[{"type":"scattergl","marker":{"colorbar":{"outlinewidth":0,"ticks":""}}}],"scatter3d":[{"type":"scatter3d","line":{"colorbar":{"outlinewidth":0,"ticks":""}},"marker":{"colorbar":{"outlinewidth":0,"ticks":""}}}],"scattermapbox":[{"type":"scattermapbox","marker":{"colorbar":{"outlinewidth":0,"ticks":""}}}],"scatterternary":[{"type":"scatterternary","marker":{"colorbar":{"outlinewidth":0,"ticks":""}}}],"scattercarpet":[{"type":"scattercarpet","marker":{"colorbar":{"outlinewidth":0,"ticks":""}}}],"carpet":[{"aaxis":{"endlinecolor":"#2a3f5f","gridcolor":"white","linecolor":"white","minorgridcolor":"white","startlinecolor":"#2a3f5f"},"baxis":{"endlinecolor":"#2a3f5f","gridcolor":"white","linecolor":"white","minorgridcolor":"white","startlinecolor":"#2a3f5f"},"type":"carpet"}],"table":[{"cells":{"fill":{"color":"#EBF0F8"},"line":{"color":"white"}},"header":{"fill":{"color":"#C8D4E3"},"line":{"color":"white"}},"type":"table"}],"barpolar":[{"marker":{"line":{"color":"#E5ECF6","width":0.5},"pattern":{"fillmode":"overlay","size":10,"solidity":0.2}},"type":"barpolar"}],"pie":[{"automargin":true,"type":"pie"}]},"layout":{"autotypenumbers":"strict","colorway":["#636efa","#EF553B","#00cc96","#ab63fa","#FFA15A","#19d3f3","#FF6692","#B6E880","#FF97FF","#FECB52"],"font":{"color":"#2a3f5f"},"hovermode":"closest","hoverlabel":{"align":"left"},"paper_bgcolor":"white","plot_bgcolor":"#E5ECF6","polar":{"bgcolor":"#E5ECF6","angularaxis":{"gridcolor":"white","linecolor":"white","ticks":""},"radialaxis":{"gridcolor":"white","linecolor":"white","ticks":""}},"ternary":{"bgcolor":"#E5ECF6","aaxis":{"gridcolor":"white","linecolor":"white","ticks":""},"baxis":{"gridcolor":"white","linecolor":"white","ticks":""},"caxis":{"gridcolor":"white","linecolor":"white","ticks":""}},"coloraxis":{"colorbar":{"outlinewidth":0,"ticks":""}},"colorscale":{"sequential":[[0.0,"#0d0887"],[0.1111111111111111,"#46039f"],[0.2222222222222222,"#7201a8"],[0.3333333333333333,"#9c179e"],[0.4444444444444444,"#bd3786"],[0.5555555555555556,"#d8576b"],[0.6666666666666666,"#ed7953"],[0.7777777777777778,"#fb9f3a"],[0.8888888888888888,"#fdca26"],[1.0,"#f0f921"]],"sequentialminus":[[0.0,"#0d0887"],[0.1111111111111111,"#46039f"],[0.2222222222222222,"#7201a8"],[0.3333333333333333,"#9c179e"],[0.4444444444444444,"#bd3786"],[0.5555555555555556,"#d8576b"],[0.6666666666666666,"#ed7953"],[0.7777777777777778,"#fb9f3a"],[0.8888888888888888,"#fdca26"],[1.0,"#f0f921"]],"diverging":[[0,"#8e0152"],[0.1,"#c51b7d"],[0.2,"#de77ae"],[0.3,"#f1b6da"],[0.4,"#fde0ef"],[0.5,"#f7f7f7"],[0.6,"#e6f5d0"],[0.7,"#b8e186"],[0.8,"#7fbc41"],[0.9,"#4d9221"],[1,"#276419"]]},"xaxis":{"gridcolor":"white","linecolor":"white","ticks":"","title":{"standoff":15},"zerolinecolor":"white","automargin":true,"zerolinewidth":2},"yaxis":{"gridcolor":"white","linecolor":"white","ticks":"","title":{"standoff":15},"zerolinecolor":"white","automargin":true,"zerolinewidth":2},"scene":{"xaxis":{"backgroundcolor":"#E5ECF6","gridcolor":"white","linecolor":"white","showbackground":true,"ticks":"","zerolinecolor":"white","gridwidth":2},"yaxis":{"backgroundcolor":"#E5ECF6","gridcolor":"white","linecolor":"white","showbackground":true,"ticks":"","zerolinecolor":"white","gridwidth":2},"zaxis":{"backgroundcolor":"#E5ECF6","gridcolor":"white","linecolor":"white","showbackground":true,"ticks":"","zerolinecolor":"white","gridwidth":2}},"shapedefaults":{"line":{"color":"#2a3f5f"}},"annotationdefaults":{"arrowcolor":"#2a3f5f","arrowhead":0,"arrowwidth":1},"geo":{"bgcolor":"white","landcolor":"#E5ECF6","subunitcolor":"white","showland":true,"showlakes":true,"lakecolor":"white"},"title":{"x":0.05},"mapbox":{"style":"light"}}},"xaxis":{"anchor":"y","domain":[0.0,1.0],"title":{"text":"Track.Name"},"visible":false},"yaxis":{"anchor":"x","domain":[0.0,1.0],"title":{"text":"Length."}},"legend":{"tracegroupgap":0},"margin":{"t":60},"height":800,"width":1000,"title":{"text":"Length of top songs","x":0.5},"plot_bgcolor":"black"},                        {"responsive": true}                    ).then(function(){
                             
-var gd = document.getElementById('1623b869-5f9a-4e2d-b9a0-fe0bd1ff2bf3');
+var gd = document.getElementById('b752256c-026d-416c-9570-897c86ce5664');
 var x = new MutationObserver(function (mutations, observer) {{
         var display = window.getComputedStyle(gd).display;
         if (!display || display === 'none') {{

diff --git a/docs/_site/posts/index.html b/docs/_site/posts/index.html
@@ -164,14 +164,14 @@ ul.task-list li input[type="checkbox"] {
 
 <div class="quarto-listing quarto-listing-container-default" id="listing-listing">
 <div class="list quarto-listing-default">
-<div class="quarto-post image-right" data-index="0" data-listing-file-modified-sort="1709513300032" data-listing-reading-time-sort="4">
+<div class="quarto-post image-right" data-index="0" data-listing-file-modified-sort="1709557910880" data-listing-reading-time-sort="4">
 <div class="thumbnail">
-<p><a href="../posts/blogs/Spotify top 50/Spotify_v1.html"> <p class="card-img-top"><img src="blogs/Spotify top 50/attachment:34173-original.jpg"  class="thumbnail-image card-img"/></p> </a></p>
+<p><a href="../posts/blogs/Spotify top 50/Spotify_v1.html"> <p class="card-img-top"><img src="blogs/Spotify top 50/spotify.png"  class="thumbnail-image card-img"/></p> </a></p>
 </div>
 <div class="body">
 <a href="../posts/blogs/Spotify top 50/Spotify_v1.html">
 <h3 class="no-anchor listing-title">
-Introduction
+What’s hot to listen to on Spotify in 2019
 </h3>
 <div class="listing-subtitle">
 </div>
